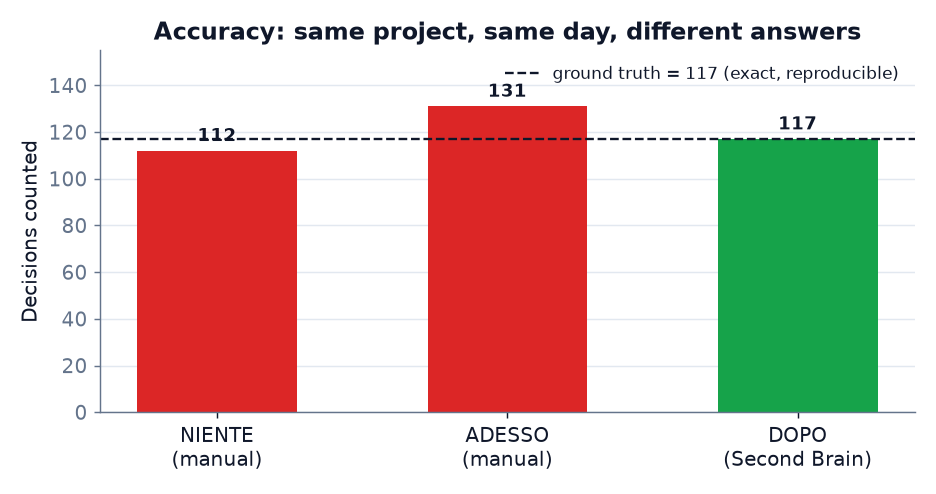
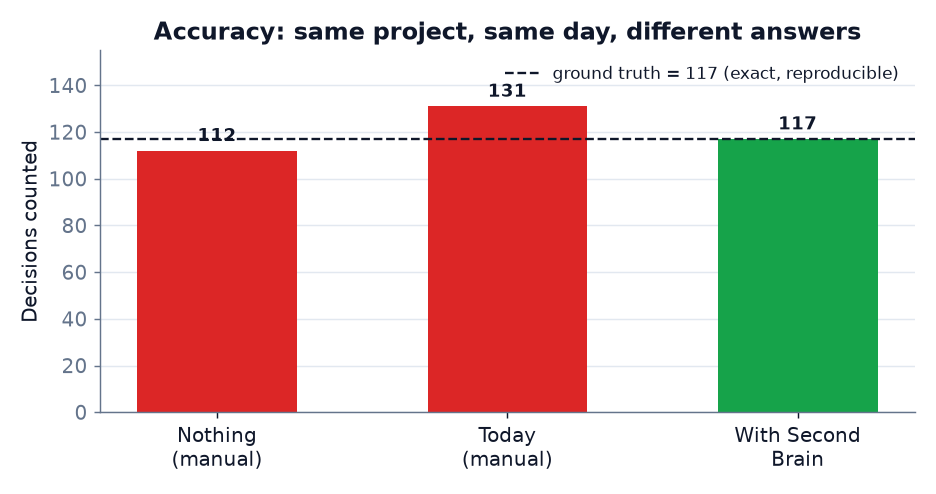
readme: english charts, reconcile token chart to measured figures, add token/memory charts, fix index-size/time consistency

Changed region(s): [[0.7746, 0.8502, 0.9295, 0.9413], [0.4957, 0.8502, 0.5887, 0.9109], [0.1859, 0.8502, 0.2788, 0.9109]]

diff --git a/docs/assets/_make_charts.py b/docs/assets/_make_charts.py
@@ -47,8 +47,11 @@ def _bar_labels(ax, bars, fmt):
 
 def chart_tokens():
     fig, ax = plt.subplots(figsize=(7.2, 4.0))
-    labels = ["Read every\nfile", "Read the\ndocs", "Manual cold\nexploration", "Second Brain\ndigest"]
-    vals = [26_752_514, 4_092_482, 100_000, 250]
+    labels = [
+        "Read all\nknowledge files", "Read all\ndocs",
+        "Read today's\ncurated docs", "Second Brain\ndigest",
+    ]
+    vals = [26_752_514, 4_092_482, 229_000, 270]
     colors = [MANUAL, MANUAL, MANUAL, SB]
     bars = ax.bar(labels, vals, color=colors, width=0.62)
     ax.set_yscale("log")
@@ -59,8 +62,8 @@ def chart_tokens():
     ax.grid(axis="y", color=GRID, linewidth=0.8)
     ax.set_axisbelow(True)
     _bar_labels(ax, bars, lambda h: f"~{int(h):,}")
-    ax.annotate("~400x less than the docs\n~100,000x less than reading everything",
-                (3, 250), xytext=(2.1, 9000), fontsize=9.5, color=SB, fontweight="bold",
+    ax.annotate("~800x less than today's curated docs\n~100,000x less than reading everything",
+                (3, 270), xytext=(2.1, 9000), fontsize=9.5, color=SB, fontweight="bold",
                 ha="center", arrowprops=dict(arrowstyle="->", color=SB, lw=1.4))
     for s in ("top", "right"):
         ax.spines[s].set_visible(False)
@@ -71,7 +74,10 @@ def chart_tokens():
 
 def chart_time():
     fig, ax = plt.subplots(figsize=(7.2, 3.6))
-    labels = ["NIENTE\n(manual)", "ADESSO\n(manual)", "DOPO\n(Second Brain)", "SB index\nbuild (once)"]
+    labels = [
+        "Nothing\n(manual)", "Today\n(manual)",
+        "With Second\nBrain", "SB index\nbuild (once)",
+    ]
     vals = [8.5, 9.0, 3.5, 0.02]
     colors = [MANUAL, MANUAL, SB, "#93c5fd"]
     bars = ax.bar(labels, vals, color=colors, width=0.6)
@@ -89,7 +95,7 @@ def chart_time():
 
 def chart_accuracy():
     fig, ax = plt.subplots(figsize=(7.2, 3.8))
-    labels = ["NIENTE\n(manual)", "ADESSO\n(manual)", "DOPO\n(Second Brain)"]
+    labels = ["Nothing\n(manual)", "Today\n(manual)", "With Second\nBrain"]
     vals = [112, 131, 117]
     colors = [BAD, BAD, GOOD]
     bars = ax.bar(labels, vals, color=colors, width=0.55)

diff --git a/README.it.md b/README.it.md
@@ -59,8 +59,8 @@ cosa sola: **consapevolezza del contesto a costo di token bassissimo.**
 
 ## Visto su un progetto reale (anonimizzato)
 
-Misura **read-only** su un progetto maturo multi-repo (identità non rivelata): ~1.800 file di
-conoscenza in 17 aree di primo livello, indicizzato in **2,5 s** (indice `graph.json` = 0,91 MB).
+Misura **read-only** su un progetto maturo multi-repo (identità non rivelata): ~1.684 file di
+conoscenza in 17 aree di primo livello, indicizzato in **~1,3 s** (indice `graph.json` = 0,91 MB).
 
 Tre modi di rispondere alle stesse quattro domande sul progetto — *cosa c'è, elenca ogni decisione
 registrata, quali file sono troncati/vuoti, i file più collegati* — in tre chat pulite separate:
@@ -85,6 +85,10 @@ rileggere i documenti curati sorgente-di-verità costa **~229.000 token**; il di
 (l'indice completo si interroga, non entra mai nel contesto).
 
 <p align="center">
+  <img src="docs/assets/chart-tokens.png" width="90%" alt="Token per orientarsi (scala log): ~26,7M per leggere tutto, ~4,09M tutti i documenti, ~229.000 i documenti curati di oggi, ~270 il digest di Second Brain">
+</p>
+
+<p align="center">
   <img src="docs/assets/chart-accuracy.png" width="48%" alt="Accuratezza: i run manuali non concordano (112 / 131), Second Brain è esatto (117)">
   <img src="docs/assets/chart-time.png" width="48%" alt="Tempo per rispondere: ~8,5 / ~9 min manuale vs ~3–4 min con Second Brain; build indice ~1,3 s una-tantum">
 </p>
@@ -94,6 +98,14 @@ troncati/corrotti** (esclusi i falsi positivi UTF-16/encoding), **~45 file vuoti
 orfani (~80%)**, **117 decisioni** e **~626 riferimenti incrociati** ora espliciti e interrogabili,
 più **13 file già stantii a pochi secondi** dall'indicizzazione (un sistema vivo che riscrive di
 continuo) — ed è proprio per questo che la mappa deve aggiornarsi da sola.
+
+<p align="center">
+  <img src="docs/assets/chart-memory.png" width="72%" alt="Illustrativo: nel corso di molte chat una mappa tenuta a mano deriva, mentre un grafo interrogabile resta aggiornato">
+</p>
+
+<sub>Illustrativo — il problema di continuità che SB elimina: nel corso di molte sessioni una
+mappa tenuta a mano deriva (orfani e file stantii si accumulano), mentre un grafo interrogabile
+resta sempre aggiornato.</sub>
 
 ### La stessa struttura, il layer di codice
 

diff --git a/README.md b/README.md
@@ -57,8 +57,8 @@ purpose-built for one thing: **situational awareness at a very low token cost.**
 
 ## See it on a real project (anonymized)
 
-A **read-only** measurement on a mature, multi-repo project (identity withheld): ~1,800
-knowledge files across 17 top-level areas, indexed in **2.5 s** (index `graph.json` = 0.91 MB).
+A **read-only** measurement on a mature, multi-repo project (identity withheld): ~1,684
+knowledge files across 17 top-level areas, indexed in **~1.3 s** (index `graph.json` = 0.91 MB).
 
 Three ways to answer the same four questions about the project — *what's here, list every
 recorded decision, which files are truncated/empty, the most-connected files* — in three
@@ -84,6 +84,10 @@ digest costs **~270 tokens**: **~800× less**, and roughly constant as the proje
 full index is queried, never loaded into context).
 
 <p align="center">
+  <img src="docs/assets/chart-tokens.png" width="90%" alt="Tokens to orient (log scale): ~26.7M to read everything, ~4.09M all docs, ~229,000 today's curated docs, ~270 the Second Brain digest">
+</p>
+
+<p align="center">
   <img src="docs/assets/chart-accuracy.png" width="48%" alt="Accuracy: manual runs disagree (112 / 131), Second Brain is exact (117)">
   <img src="docs/assets/chart-time.png" width="48%" alt="Time to answer: ~8.5 / ~9 min manual vs ~3–4 min with Second Brain; index build ~1.3 s once">
 </p>
@@ -93,6 +97,13 @@ UTF-16/encoding false positives excluded), **~45 empty files**, **~1,390 orphan 
 **117 decisions** and **~626 cross-references** now explicit and queryable, plus **13 files
 already stale within seconds** of indexing (a live system constantly writing) — which is
 exactly why the map has to update itself.
+
+<p align="center">
+  <img src="docs/assets/chart-memory.png" width="72%" alt="Illustrative: across many chats a hand-kept project map drifts while a queryable graph stays current">
+</p>
+
+<sub>Illustrative — the continuity problem SB removes: over many sessions a hand-kept map
+drifts as orphans and stale files pile up, while a queryable graph stays current.</sub>
 
 ### The same structure, the code layer
 
